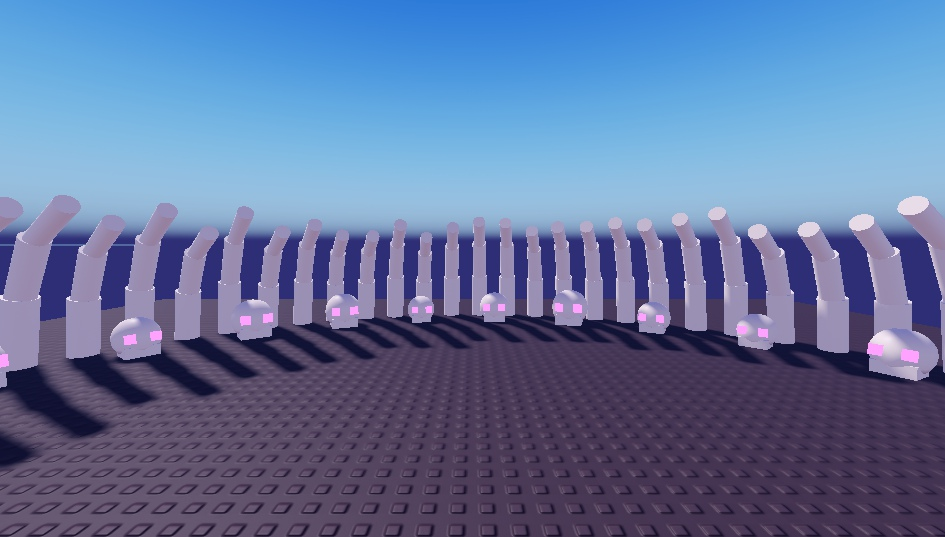
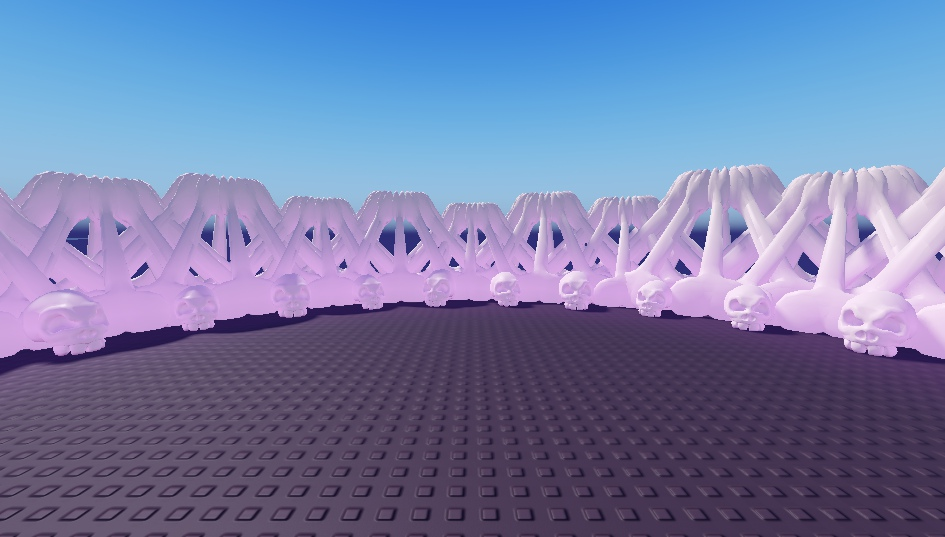
Croquis projet roblox 1

diff --git a/projet-roblox-1/index.html b/projet-roblox-1/index.html
@@ -1,31 +1,30 @@
-<title>Modèles pour les murs d'arène</title>
+<title>Murs d'arène en jeu</title>
 <meta name="claude:viewport-fit-sides" content="cover">
 <style>
-  :root { --bg: #eef1f8; --panel: #ffffff; --fg: #1d2236; --muted: #5b6380; --line: #d7dcec; --accent: #d9534f; }
-  @media (prefers-color-scheme: dark) { :root:not([data-theme="light"]) { --bg: #12152a; --panel: #1b1f3a; --fg: #eef0ff; --muted: #a3a9c9; --line: #2d3358; --accent: #ff7b77; color-scheme: dark } }
-  :root[data-theme="dark"] { --bg: #12152a; --panel: #1b1f3a; --fg: #eef0ff; --muted: #a3a9c9; --line: #2d3358; --accent: #ff7b77; color-scheme: dark }
+  :root { --bg: #eef1f8; --panel: #ffffff; --fg: #1d2236; --muted: #5b6380; --line: #d7dcec; }
+  @media (prefers-color-scheme: dark) { :root:not([data-theme="light"]) { --bg: #12152a; --panel: #1b1f3a; --fg: #eef0ff; --muted: #a3a9c9; --line: #2d3358; color-scheme: dark } }
+  :root[data-theme="dark"] { --bg: #12152a; --panel: #1b1f3a; --fg: #eef0ff; --muted: #a3a9c9; --line: #2d3358; color-scheme: dark }
   body { background: var(--bg); color: var(--fg); font-family: "Nunito", system-ui, sans-serif; font-size: 15px; line-height: 1.55;
     padding-left: max(16px, env(safe-area-inset-left, 0px)); padding-right: max(16px, env(safe-area-inset-right, 0px)); padding-block: 24px 40px; }
   .wrap { max-width: 1100px; margin: 0 auto; display: grid; gap: 16px; }
   h1 { margin: 0; font-size: 28px; text-wrap: balance; }
-  h2 { margin: 0; font-size: 19px; }
-  p { margin: 0; color: var(--muted); max-width: 78ch; }
+  p { margin: 0; color: var(--muted); max-width: 75ch; }
   .grid { display: grid; grid-template-columns: repeat(2, minmax(0, 1fr)); gap: 14px; }
   @media (max-width: 700px) { .grid { grid-template-columns: 1fr; } }
-  figure { margin: 0; display: grid; gap: 6px; background: var(--panel); border: 1px solid var(--line); border-radius: 12px; padding: 12px; align-content: start; }
+  figure { margin: 0; display: grid; gap: 6px; background: var(--panel); border: 1px solid var(--line); border-radius: 12px; padding: 10px; }
   img { width: 100%; border-radius: 8px; display: block; }
-  figcaption { font-size: 14px; color: var(--muted); display: grid; gap: 4px; }
-  .rec { color: var(--accent); font-weight: 700; }
+  figcaption { font-size: 14px; color: var(--muted); }
+  figcaption b { color: var(--fg); }
 </style>
 <div class="wrap">
-  <h1>Modèles pour les murs d'arène</h1>
-  <p>De vrais modèles gratuits de la boutique Roblox, comme la citrouille. Beaucoup n'ont pas de texture (gris) : je leur donne la couleur et la matière du thème (glace transparente, os beige, cristal violet qui brille…). Regarde surtout la FORME. Au fond des images, on voit les autres rangées : ne regarde que la rangée du devant.</p>
+  <h1>Murs d'arène en jeu</h1>
+  <p>Version 2 (21/10) : de vrais modèles 3D du Creator Store, choisis sur la page de choix. Captures dans Studio, vues depuis l'intérieur de l'arène, en plein jour. Les particules (flammes fantômes, brume, braises, givre) et les lueurs n'apparaissent qu'en jeu.</p>
   <div class="grid">
-    <figure><img src="cristaux.jpg" alt="Cristaux"><h2>Grotte des Fantômes · cristaux</h2><figcaption><span>1 : deux prismes de quartz · 2 : pointes fines bleu foncé · 4 : grappe de cristaux taillés</span><span class="rec">Mon conseil : 4 (en violet), avec des 1 plus petits entre eux.</span></figcaption></figure>
-    <figure><img src="glace.jpg" alt="Glace"><h2>Royaume des Glaces · glace</h2><figcaption><span>1 : bloc d'iceberg · 2 : grand pic (stalagmite) · 3 : plaque de cristaux à plat</span><span class="rec">Mon conseil : 1 pour le mur, et des 2 en pics de glace.</span></figcaption></figure>
-    <figure><img src="os.jpg" alt="Os"><h2>Bois des Ombres · os et crânes</h2><figcaption><span>1 : rangée d'os · 2 : cage de côtes · 3 : crâne de bête · 4 : crâne humain · 5 : crâne à bois de cerf</span><span class="rec">Mon conseil : 2 pour le mur (cage de côtes), avec des 4 au pied.</span></figcaption></figure>
-    <figure><img src="lave.jpg" alt="Lave"><h2>Volcan · roche et lave</h2><figcaption><span>1 : dalle de lave · 2 : grande pointe de roche à lave rouge · 3 : gros rocher noir · 4 : rocher clair</span><span class="rec">Mon conseil : 2 (déjà texturé avec de la lave) en alternance avec des 3.</span></figcaption></figure>
-    <figure><img src="nuages.jpg" alt="Nuages"><h2>Royaume Céleste · nuages</h2><figcaption><span>1 : nuage plat · 2 : nuage en champignon · 3 : nuage en boule · 4 : nuage moelleux allongé</span><span class="rec">Mon conseil : 4, empilés en mur.</span></figcaption></figure>
-    <figure><img src="colonnes.jpg" alt="Colonnes"><h2>Royaume Céleste · colonnes</h2><figcaption><span>1 : colonne grecque blanche · 2 : colonne lisse · 3 : colonne de marbre sombre · 4 : pilier sculpté sombre</span><span class="rec">Mon conseil : 1 (marbre blanc), avec chapiteau doré.</span></figcaption></figure>
+    <figure><img src="potager.jpg" alt="Mur du Potager"><figcaption><b>Potager aux Citrouilles</b> : pieux tordus, ronces à épines, vraies citrouilles-lanternes.</figcaption></figure>
+    <figure><img src="grotte.jpg" alt="Mur de la Grotte"><figcaption><b>Grotte des Fantômes</b> : grappes de cristaux violets, petits quartz devant.</figcaption></figure>
+    <figure><img src="glaces.jpg" alt="Mur des Glaces"><figcaption><b>Royaume des Glaces</b> : blocs d'iceberg transparents, pics de glace.</figcaption></figure>
+    <figure><img src="ombres.jpg" alt="Mur du Bois des Ombres"><figcaption><b>Bois des Ombres</b> : cages de côtes, crânes qui regardent l'arène (lueur violette en jeu).</figcaption></figure>
+    <figure><img src="volcan.jpg" alt="Mur du Volcan"><figcaption><b>Volcan</b> : pointes de roche à lave rouge et gros rochers noirs, ligne de lave au pied.</figcaption></figure>
+    <figure><img src="celeste.jpg" alt="Mur du Royaume Céleste"><figcaption><b>Royaume Céleste</b> : mur de nuages moelleux, colonnes de marbre blanc.</figcaption></figure>
   </div>
 </div>
